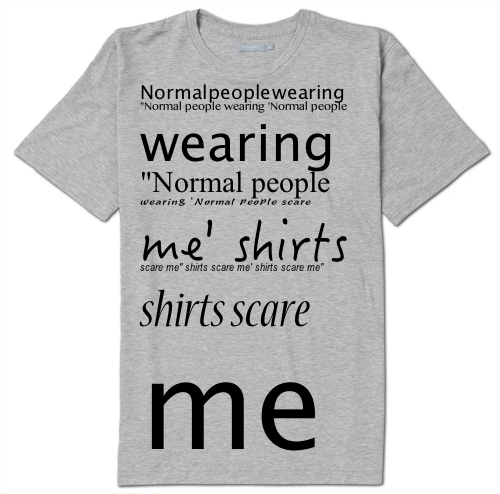
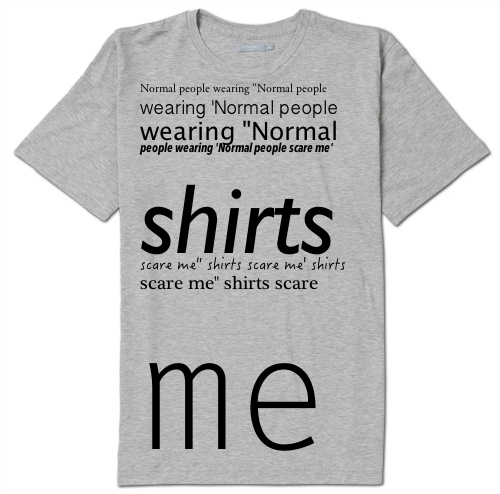
add option to break on anything
imo it's better the new way...

Changed region(s): [[0.27, 0.1518, 0.69, 0.668], [0.3, 0.7287, 0.63, 0.9109]]

diff --git a/examples/index.html b/examples/index.html
@@ -3,3 +3,8 @@
 <img src="quotes-six.png">
 <img src="quotes-eight.png">
 <img src="quotes-ten.png">
+<img src="anything-two.png">
+<img src="anything-four.png">
+<img src="anything-six.png">
+<img src="anything-eight.png">
+<img src="anything-ten.png">
